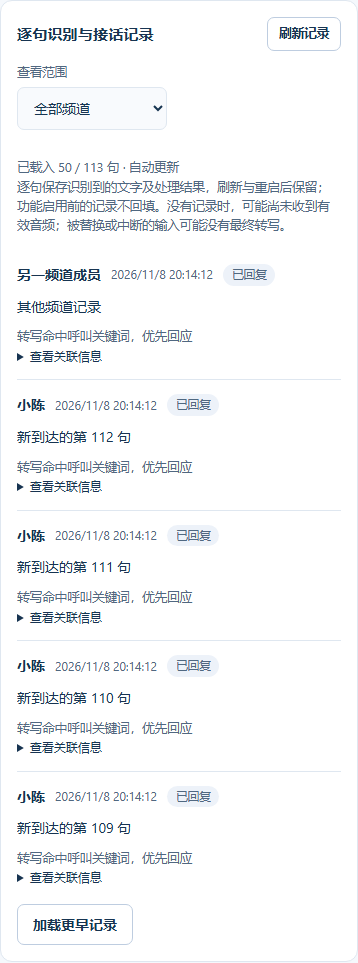
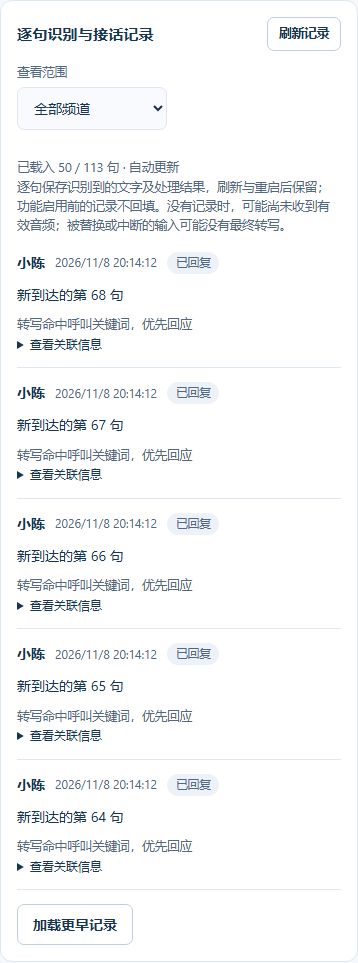
Keep playback facts and refresh unfinished transcript rows

diff --git a/webui_preview.html b/webui_preview.html
@@ -3391,13 +3391,14 @@ let voiceTraceNext = null;
 let voiceTraceGeneration = 0;
 let voiceTraceBusy = false;
 let voiceTraceGap = null;
+let voiceTracePendingCursor = 0;
 let voiceTraceTarget = '';
 let voiceTraceStatus = null;
 
 function resetVoiceTraces() {
   voiceTraceGeneration++;
   voiceTraceRows.clear(); voiceTraceNext = null;
-  voiceTraceBusy = false; voiceTraceGap = null;
+  voiceTraceBusy = false; voiceTraceGap = null; voiceTracePendingCursor = 0;
   const list = $('voice-trace-list');
   if (list) list.replaceChildren();
 }
@@ -3494,6 +3495,25 @@ async function refreshVoiceTraces(st, {older = false} = {}) {
       // Keep the earlier gap's lower boundary when multiple suspended refreshes
       // create disjoint loaded pages; the ordinary older-history cursor is separate.
       voiceTraceGap = {before: data.next_before, until: voiceTraceGap?.until ?? newestKnown};
+    }
+    if (!older) {
+      // At most one extra bounded page per refresh. Rotate through loaded unfinished
+      // rows outside the newest page; do not change history/gap cursors or add rows.
+      const refreshed = new Set(rows.map(row => row.sequence));
+      const pending = [...voiceTraceRows.values()]
+        .filter(row => (row.stage !== 'finished' || !row.text_final) && !refreshed.has(row.sequence))
+        .sort((a, b) => a.sequence - b.sequence);
+      const anchor = pending.find(row => row.sequence > voiceTracePendingCursor) || pending[0];
+      if (anchor) {
+        const pendingQuery = new URLSearchParams(query);
+        pendingQuery.set('before', String(anchor.sequence + 1));
+        const updates = await api('/api/voice/transcripts?' + pendingQuery);
+        if (generation !== voiceTraceGeneration) return;
+        for (const row of updates.rows || []) {
+          if (voiceTraceRows.has(row.sequence)) voiceTraceRows.set(row.sequence, row);
+        }
+        voiceTracePendingCursor = anchor.sequence;
+      }
     }
     text('voice-trace-status', '已载入 ' + voiceTraceRows.size + ' / ' + (data.total || 0) + ' 句 · 自动更新');
     renderVoiceTraces();

diff --git a/src/webui/assets/voice.js b/src/webui/assets/voice.js
@@ -19,13 +19,14 @@ let voiceTraceNext = null;
 let voiceTraceGeneration = 0;
 let voiceTraceBusy = false;
 let voiceTraceGap = null;
+let voiceTracePendingCursor = 0;
 let voiceTraceTarget = '';
 let voiceTraceStatus = null;
 
 function resetVoiceTraces() {
   voiceTraceGeneration++;
   voiceTraceRows.clear(); voiceTraceNext = null;
-  voiceTraceBusy = false; voiceTraceGap = null;
+  voiceTraceBusy = false; voiceTraceGap = null; voiceTracePendingCursor = 0;
   const list = $('voice-trace-list');
   if (list) list.replaceChildren();
 }
@@ -122,6 +123,25 @@ async function refreshVoiceTraces(st, {older = false} = {}) {
       // Keep the earlier gap's lower boundary when multiple suspended refreshes
       // create disjoint loaded pages; the ordinary older-history cursor is separate.
       voiceTraceGap = {before: data.next_before, until: voiceTraceGap?.until ?? newestKnown};
+    }
+    if (!older) {
+      // At most one extra bounded page per refresh. Rotate through loaded unfinished
+      // rows outside the newest page; do not change history/gap cursors or add rows.
+      const refreshed = new Set(rows.map(row => row.sequence));
+      const pending = [...voiceTraceRows.values()]
+        .filter(row => (row.stage !== 'finished' || !row.text_final) && !refreshed.has(row.sequence))
+        .sort((a, b) => a.sequence - b.sequence);
+      const anchor = pending.find(row => row.sequence > voiceTracePendingCursor) || pending[0];
+      if (anchor) {
+        const pendingQuery = new URLSearchParams(query);
+        pendingQuery.set('before', String(anchor.sequence + 1));
+        const updates = await api('/api/voice/transcripts?' + pendingQuery);
+        if (generation !== voiceTraceGeneration) return;
+        for (const row of updates.rows || []) {
+          if (voiceTraceRows.has(row.sequence)) voiceTraceRows.set(row.sequence, row);
+        }
+        voiceTracePendingCursor = anchor.sequence;
+      }
     }
     text('voice-trace-status', '已载入 ' + voiceTraceRows.size + ' / ' + (data.total || 0) + ' 句 · 自动更新');
     renderVoiceTraces();

diff --git a/tests/app/test_output_commit_lifecycle.py b/tests/app/test_output_commit_lifecycle.py
@@ -146,3 +146,56 @@ def test_live_close_does_not_hide_a_failed_transaction_commit(tmp_path):
             await flow.close()
         await context.close()
     asyncio.run(scenario())
+
+
+def test_cascade_cancelled_commit_preserves_completed_playback_diagnostic(tmp_path):
+    from app.flows import run_cascade
+    from app.observation import FlowObservations
+    from context.models import VoiceTraceQuery
+    from dialogue.models import DialogueCapabilities, Recognition
+
+    class CascadeModel(Model):
+        name = 'synthetic'
+        def capabilities(self): return DialogueCapabilities()
+        async def recognize(self, audio, permit):
+            return Recognition(audio.input_ref, audio.session, permit.attempt_id, audio.user_key,
+                               'recognized', '人的输入')
+        def generate(self, intent, prepared, *, tools):
+            self.action_id = intent.action_id
+            return super().generate(intent, prepared, tools=tools)
+
+    async def scenario():
+        context = create_context_service(str(tmp_path / 'history.jsonl'))
+        channel = create_channel(Transport())
+        session = (await channel.execute(JoinRoom('join', RoomTarget('a', 'b'), 0))).session
+        behavior, model = create_behavior(), CascadeModel()
+        behavior.start_session(session)
+        entered, release = threading.Event(), threading.Event()
+        original = context.record_output
+        def write(record):
+            entered.set()
+            assert release.wait(3)
+            return original(record)
+        context.record_output = write
+        flow = asyncio.create_task(run_cascade(backend=model, context=context, channel=channel,
+            behavior=behavior, session=session, trigger_id='input', user_key='alice',
+            pcm=b'\0\x40' * 16000, sample_rate=16000, limit=3, settings=ReplySettings(),
+            interpret_controls=False, current=lambda: True, on_playing=lambda _: None,
+            observations=FlowObservations(journal=context)))
+        try:
+            assert await asyncio.to_thread(entered.wait, 1)
+            assert channel.playback(model.action_id).status == 'completed'
+            flow.cancel()
+            await asyncio.sleep(0)
+            release.set()
+            with pytest.raises(asyncio.CancelledError):
+                await flow
+            await context.flush_voice_traces()
+            trace = context.voice_traces(VoiceTraceQuery()).rows[0].trace
+            assert trace.stage == 'finished' and trace.outcome == 'completed'
+            assert context.history.as_messages() == [
+                {'role': 'user', 'content': '人的输入'}, {'role': 'assistant', 'content': '已播放的回复'}]
+        finally:
+            release.set()
+            await context.close()
+    asyncio.run(scenario())

diff --git a/src/app/flows.py b/src/app/flows.py
@@ -263,9 +263,12 @@ async def run_cascade(*, backend, context, behavior, channel,
         return FlowResult(recognized.text, evidence.text, outcome,
                           text_outcome=text_outcome, text_reason=text_reason)
     except asyncio.CancelledError:
+        end_reason = 'interrupted'
         if intent is not None and execution_started:
             result = channel.playback(intent.action_id)
             if isinstance(result, PlaybackResult):
+                # 历史提交等待被取消不改变已完成的渠道播放事实。
+                end_reason = result.status
                 if not feedback_sent:
                     behavior.feedback(result)
                     feedback_sent = True
@@ -279,7 +282,6 @@ async def run_cascade(*, backend, context, behavior, channel,
                     commit_started = True
                     await commit_output(context, OutputRecord(intent.action_id, session,
                         turn, result, prepared.context_ref, trigger_id))
-        end_reason = 'interrupted'
         raise
     finally:
         try:

diff --git a/docs/voice-guide.md b/docs/voice-guide.md
@@ -203,7 +203,7 @@ Live 模式由客户端清空当前播放并丢弃本回合剩余音频，服务
 
 MiMo 可独立验证三个阶段；Gemini Live 没有独立意图返回，只有实际产生退房工具调用时才显示验证成功，普通短句未触发时显示跳过。浏览器试听也独立生成并只在浏览器播放，可随时停止。
 
-「语音台 → 会话控制 → 逐句识别与接话记录」显示时间、说话者昵称/成员ID、转写和接话原因，以及实际播放是否完成。可选当前频道或全部频道，每页50句，可加载更早记录；暂停期间超过一页的新记录仍可通过加载按钮补齐，不与旧历史游标混用。后台通过有界异步队列保存新增诊断，落盘后刷新/重启保留；磁盘长期阻塞造成队满时诊断拒收并告警，业务接话不等待诊断事务，功能启用前的文字与原因不回填。昵称解析失败保留原成员ID，不猜测说话者。
+「语音台 → 会话控制 → 逐句识别与接话记录」显示时间、说话者昵称/成员ID、转写和接话原因，以及实际播放是否完成。可选当前频道或全部频道，每页50句，可加载更早记录；暂停期间超过一页的新记录仍可通过加载按钮补齐，不与旧历史游标混用。每次刷新最多另取一页轮询已加载但未结束或转写未定稿的旧记录，避免其离开最新页后停留在处理中；补查不改变加载范围和分页游标。后台通过有界异步队列保存新增诊断，落盘后刷新/重启保留；磁盘长期阻塞造成队满时诊断拒收并告警，业务接话不等待诊断事务，功能启用前的文字与原因不回填。昵称解析失败保留原成员ID，不猜测说话者。
 
 叫名关键词、模型判定呼叫/适合帮助/保持倾听、判定不可用/非法，以及短句、限额、输入中断、未被选中或等待超时分别显示；“允许回复”不等于“已回复”，只有实际播放completed才显示已回复。未取得最终转写明确标注；Live临时转录有独立标记，不冒充确认文本。进程意外中断的未完成记录保留原阶段，长时间未更新会提示可能中断。记录为空不能证明没人说话，可能音频未收到、被监听/VAD规则过滤，或未达到启动识别门槛。
 

diff --git a/tests/README.md b/tests/README.md
@@ -53,4 +53,4 @@ python -m pytest -v -o faulthandler_timeout=60
 
 语义接话：`tests/behavior/test_semantic_replies.py` 验证无抽样、叫名兜底和输入绑定；`tests/dialogue/test_reply_assessment.py` 验证真实HTTP与严格JSON边界；`tests/test_aliyun_deepseek.py` 贯通识别、语义候选、真实行为/上下文、生成与播放。外部ASR/TTS/LLM服务在本地协议服务器替代，真实叫名声学效果另行验证。
 
-逐句排障：`tests/context/test_voice_traces.py` 验证真实SQLite分页、重启、输入身份、记忆隔离、有界受理及取消关闭排空；`tests/app/test_trace_write_isolation.py` 验证真实SQLite写锁不阻塞事件循环；`tests/app/test_live_unplayed_trace.py` 验证真实Live过期且未播放轮次诊断终态；`tests/app/test_voice_transcript_api.py` 验证认证HTTP与参数边界；`tests/test_aliyun_deepseek.py` 验证真实协议/应用采集、未选中输入的最终转写及结束原因；`tests/browser/transcript-timeline.cjs` 验证正式资源中的昵称、文字、原因、播放终态、分页、失败保留、迟到请求、XSS和窄屏。
+逐句排障：`tests/context/test_voice_traces.py` 验证真实SQLite分页、重启、输入身份、记忆隔离、有界受理及取消关闭排空；`tests/app/test_trace_write_isolation.py` 验证真实SQLite写锁不阻塞事件循环；`tests/app/test_live_unplayed_trace.py` 验证真实Live过期且未播放轮次诊断终态；`tests/app/test_voice_transcript_api.py` 验证认证HTTP与参数边界；`tests/test_aliyun_deepseek.py` 验证真实协议/应用采集、未选中输入的最终转写及结束原因；`tests/browser/transcript-timeline.cjs` 验证正式资源中的昵称、文字、原因、播放终态、分页、新页缺口、旧页未完记录刷新、失败保留、迟到请求、XSS和窄屏。`tests/app/test_output_commit_lifecycle.py` 验证播放完成后取消SQLite提交等待仍保留真实播放终态。
